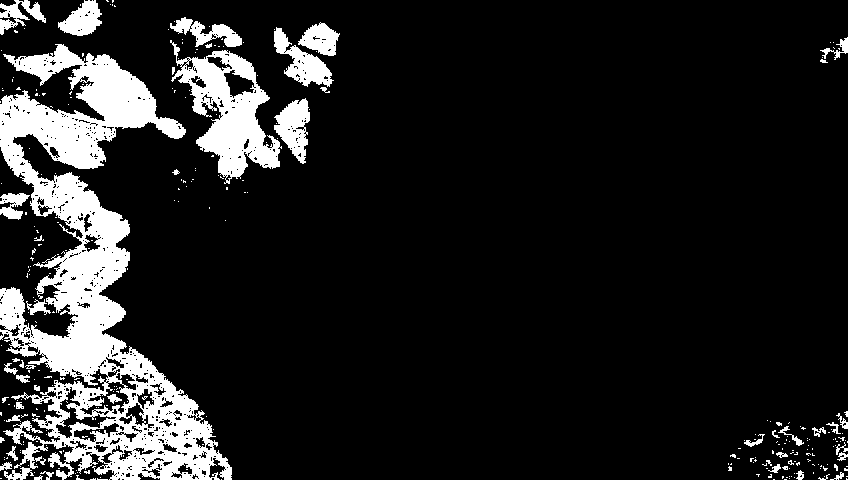
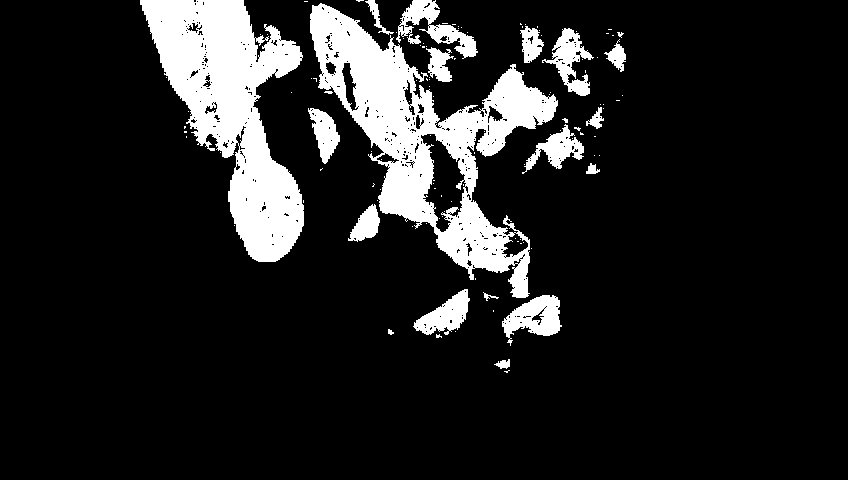
plots

diff --git a/jetson/src/core/imaging.cpp b/jetson/src/core/imaging.cpp
@@ -74,12 +74,15 @@ cv::Mat colorMask(cv::Mat& image, Pixel ideal, double angleTol, double lengthTol
 std::vector<Point2D> findFlowerCenters(cv::Mat& image){
 	std::vector<Point2D> yellowBlobs;
 
-	cv::Mat yellowMask = colorMask(image, {255, 255, 255}, 0.1, 75);
+	uint8_t brightest = (uint8_t) brightestPixelVal(image);
+	log(std::string("brightest pixel value: ") + std::to_string(brightest));
+
+	cv::Mat yellowMask = colorMask(image, {brightest, brightest, brightest}, 0.1, 100);
 	cv::imwrite("./plots/yellow.png", yellowMask);
 
 	cv::Mat green = colorMask(image, {30, 55, 15}, 0.2, 50);
 	cv::imwrite("./plots/green.png", green);
-	cv::blur(green, green, cv::Size(20, 20));
+	cv::blur(green, green, cv::Size(35, 35));
 	cv::imwrite("./plots/blurredGreen.png", green);
 
 	cv::Mat labels, stats, centroids;
@@ -89,7 +92,7 @@ std::vector<Point2D> findFlowerCenters(cv::Mat& image){
 	// TODO: smarter way to determine hardcoded cutoffs?
 	for (int i = 1; i < label_count; i++) {
 		int blurredGreenVal = green.at<uchar>((int)centroids.at<double>(i, 1), (int)centroids.at<double>(i, 0));
-		if ( blurredGreenVal > 10) {
+		if ( blurredGreenVal > 10 && stats.at<int>(i, cv::CC_STAT_AREA) > 20 ) {
 			yellowBlobs.push_back({ centroids.at<double>(i, 0), centroids.at<double>(i, 1) });
 		}
 	}
